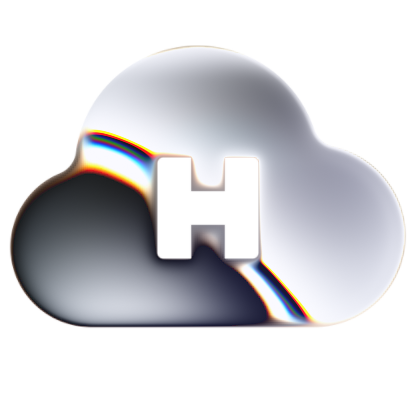
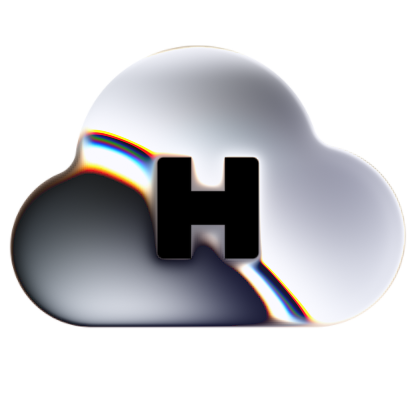
Fill the H in the liquid metal cloud with solid black
The H was a hole, so on the light sky it read as pale lavender. It is now
solid black in both themes: cloud.svg's own H, drawn as a distance field
under the metal and grown by two field texels, so the metal's soft inner
bevel lies over black rather than over the backdrop. The still fallback is
re-rendered from the same shader.

Changed region(s): [[0.375, 0.375, 0.625, 0.625]]

diff --git a/packages/happy-desktop-ui/src/liquidMetalShader.ts b/packages/happy-desktop-ui/src/liquidMetalShader.ts
@@ -24,7 +24,11 @@
  * by slopus/happy's scripts/liquid-metal/cloud.py (Paper's Poisson solve,
  * blurEdge3x3 and pow 1.6) into cloud-liquid-metal.png, red the edge and
  * green the alpha, so a frame reads it once rather than nine times; the
- * banding dither scaled by the mark's opacity, so the square stays clear.
+ * banding dither scaled by the mark's opacity, so the square stays clear;
+ * and the H cut out of the cloud filled with solid black, so it reads the
+ * same on every surface. The H is cloud.svg's own geometry, drawn as a
+ * distance field under the metal and grown by two field texels so the metal's
+ * soft inner edge always lies over black, never over whatever is behind.
  */
 export const liquidMetalVertexShader = `#version 300 es
 in vec2 a_position;
@@ -52,6 +56,25 @@ const float ANGLE = 70.;
 // colorTint white at full strength: color burn by white changes nothing.
 const vec3 TINT = vec3(1.);
 const float TINT_ALPHA = 1.;
+
+// The H cut-out in the mark's unit square, y down: cloud.svg's 378.18-621.83
+// square with 15.23 outer corners, less its 81.22-wide notches top and bottom.
+const vec2 H_CENTER = vec2(.5);
+const vec2 H_HALF = vec2(.121825);
+const float H_RADIUS = .01523;
+// Each notch runs from .04061 off the centre outward, past the square's edge.
+const vec2 H_NOTCH_HALF = vec2(.04061, .08);
+const float H_NOTCH_CENTER = .12061;
+// Two texels of the 512px field.
+const float H_GROW = 2. / 512.;
+
+float hDistance(vec2 p) {
+  vec2 q = abs(p - H_CENTER) - H_HALF + H_RADIUS;
+  float square = length(max(q, 0.)) + min(max(q.x, q.y), 0.) - H_RADIUS;
+  vec2 n = abs(vec2(p.x - H_CENTER.x, abs(p.y - H_CENTER.y) - H_NOTCH_CENTER)) - H_NOTCH_HALF;
+  float notch = length(max(n, 0.)) + min(max(n.x, n.y), 0.);
+  return max(square, -notch);
+}
 
 vec2 rotate(vec2 uv, float th) {
   return mat2(cos(th), sin(th), -sin(th), cos(th)) * uv;
@@ -220,6 +243,11 @@ void main() {
 
   color += opacity / 256. * (fract(sin(dot(.014 * gl_FragCoord.xy, vec2(12.9898, 78.233))) * 43758.5453123) - .5);
 
-  fragColor = vec4(color, opacity);
+  // The black H under the metal: it adds coverage and no colour.
+  // Its coverage from the distance in pixels: a unit-square distance times
+  // the square's side.
+  float h = hDistance(uv) - H_GROW;
+  float hole = clamp(.5 - h * side, 0., 1.);
+  fragColor = vec4(color, opacity + hole * (1. - opacity));
 }
 `;
